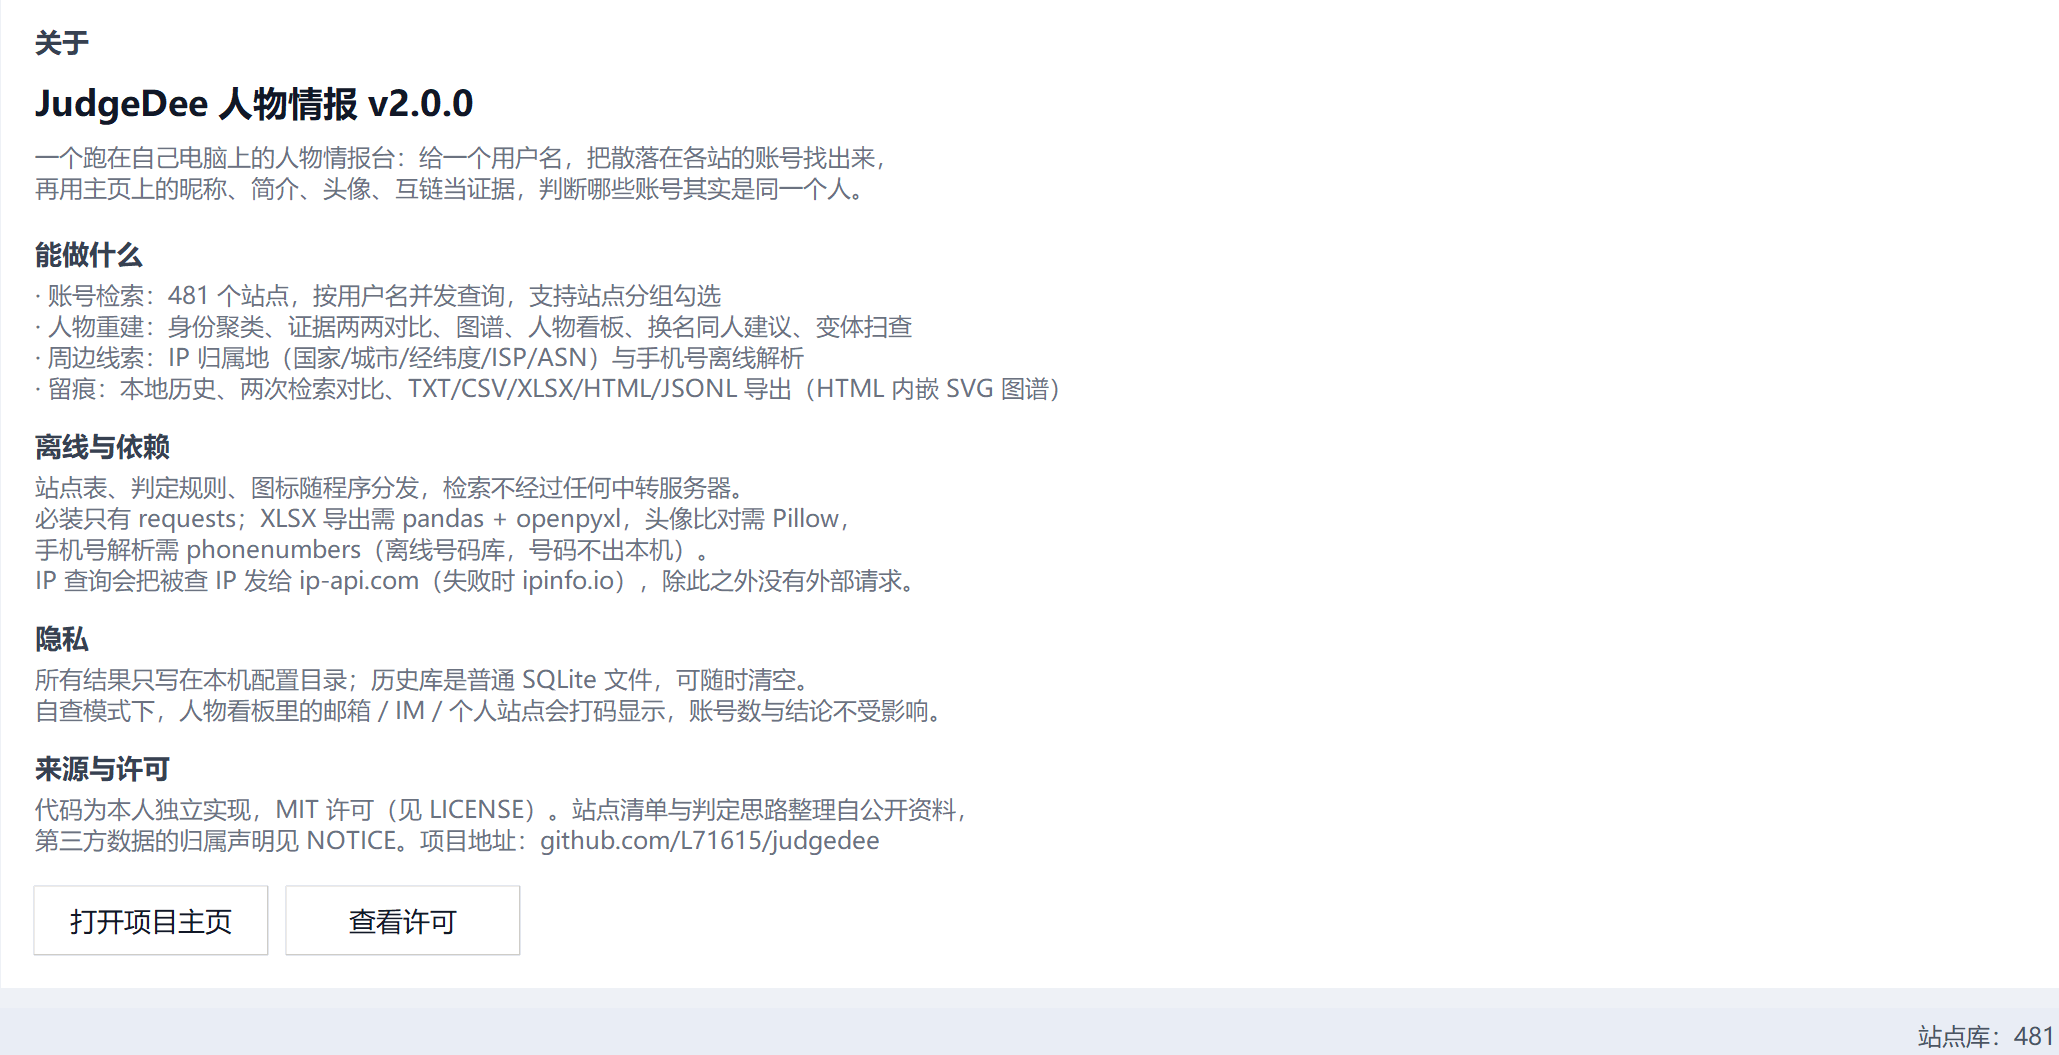
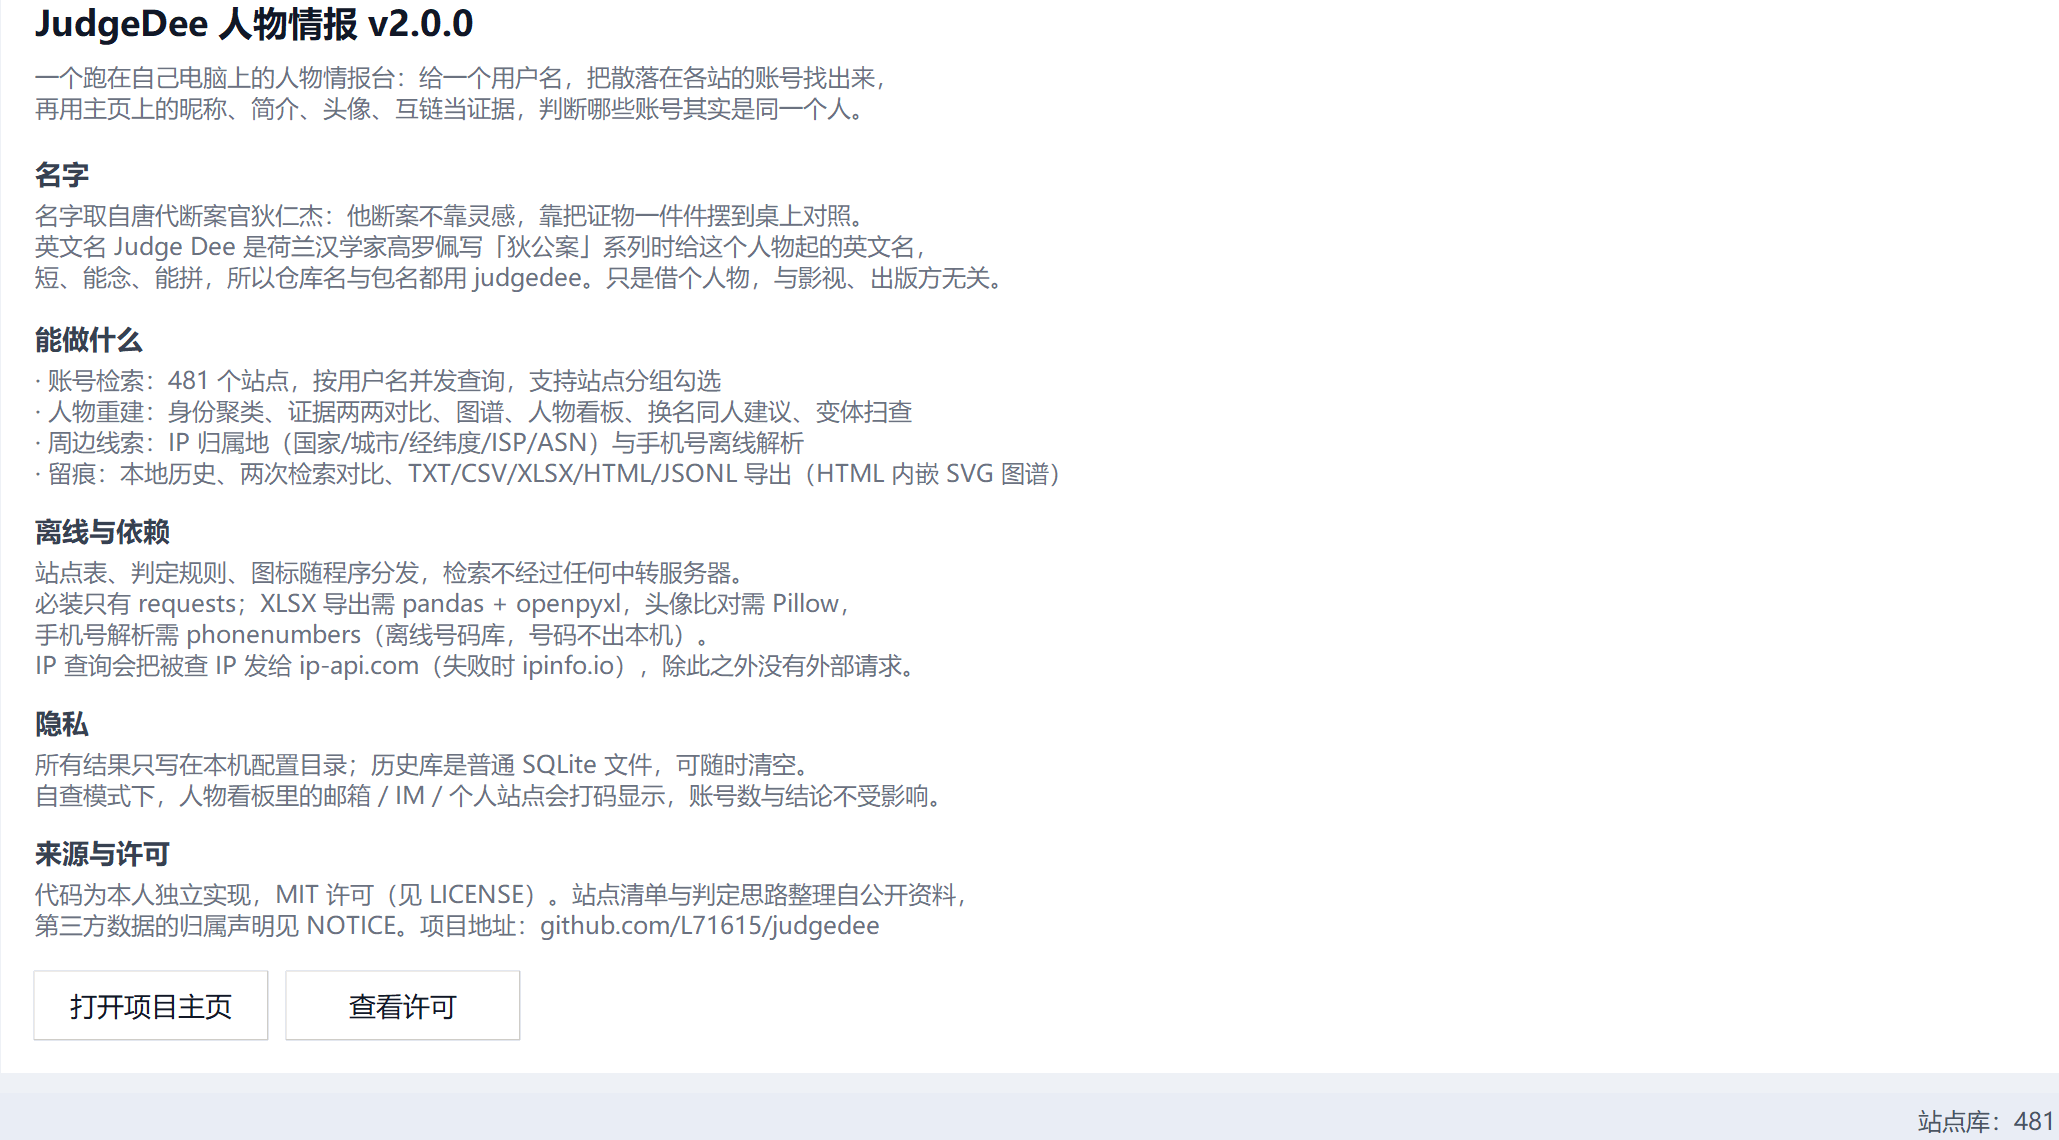
docs: 名字由来写进关于页；README 补高罗佩与无关联说明

diff --git a/judgedee/ui/page_settings.py b/judgedee/ui/page_settings.py
@@ -139,6 +139,17 @@ class SettingsPage(ttk.Frame):
             style="Hint.TLabel", justify="left", wraplength=self.px(760),
         ).pack(anchor="w", pady=(px(6), px(10)))
 
+        ttk.Label(about, text="名字", style="Sub.TLabel").pack(anchor="w", pady=(px(4), px(2)))
+        ttk.Label(
+            about,
+            text=(
+                "名字取自唐代断案官狄仁杰：他断案不靠灵感，靠把证物一件件摆到桌上对照。\n"
+                "英文名 Judge Dee 是荷兰汉学家高罗佩写「狄公案」系列时给这个人物起的英文名，\n"
+                "短、能念、能拼，所以仓库名与包名都用 judgedee。只是借个人物，与影视、出版方无关。"
+            ),
+            style="Hint.TLabel", justify="left", wraplength=self.px(760),
+        ).pack(anchor="w", pady=(0, px(8)))
+
         for title, body in (
             (
                 "能做什么",

diff --git a/README.md b/README.md
@@ -31,8 +31,9 @@ JudgeDee 是一个 Windows 桌面小程序，眼下做三件事：
 狄仁杰断案靠的不是灵感，是**把证物一件件摆到桌上对照**：谁是同一个人、哪句话对不上、哪个细节只有当事人知道。
 这个工具干的是同一件事——把散落在几百个站点上的账号、昵称、头像、简介、外链摆到一起，让「是不是同一个人」这件事有据可查。
 
-英文名取 *Judge Dee*（高罗佩《大唐狄公案》里的译名），短、能念、能拼，直接当仓库名和包名用：
-`judgedee`。中文界面里仍叫「人物情报」，不做神化，只说它实际能干什么。
+英文名取 *Judge Dee*——荷兰汉学家高罗佩（Robert van Gulik）写「狄公案」系列时给狄仁杰起的英文名，
+短、能念、能拼，直接当仓库名和包名用：`judgedee`。中文界面里仍叫「人物情报」，不做神化，
+只说它实际能干什么；名字只是借用一个人物，与任何影视、出版方无关。
 
 ## 快速开始
 
